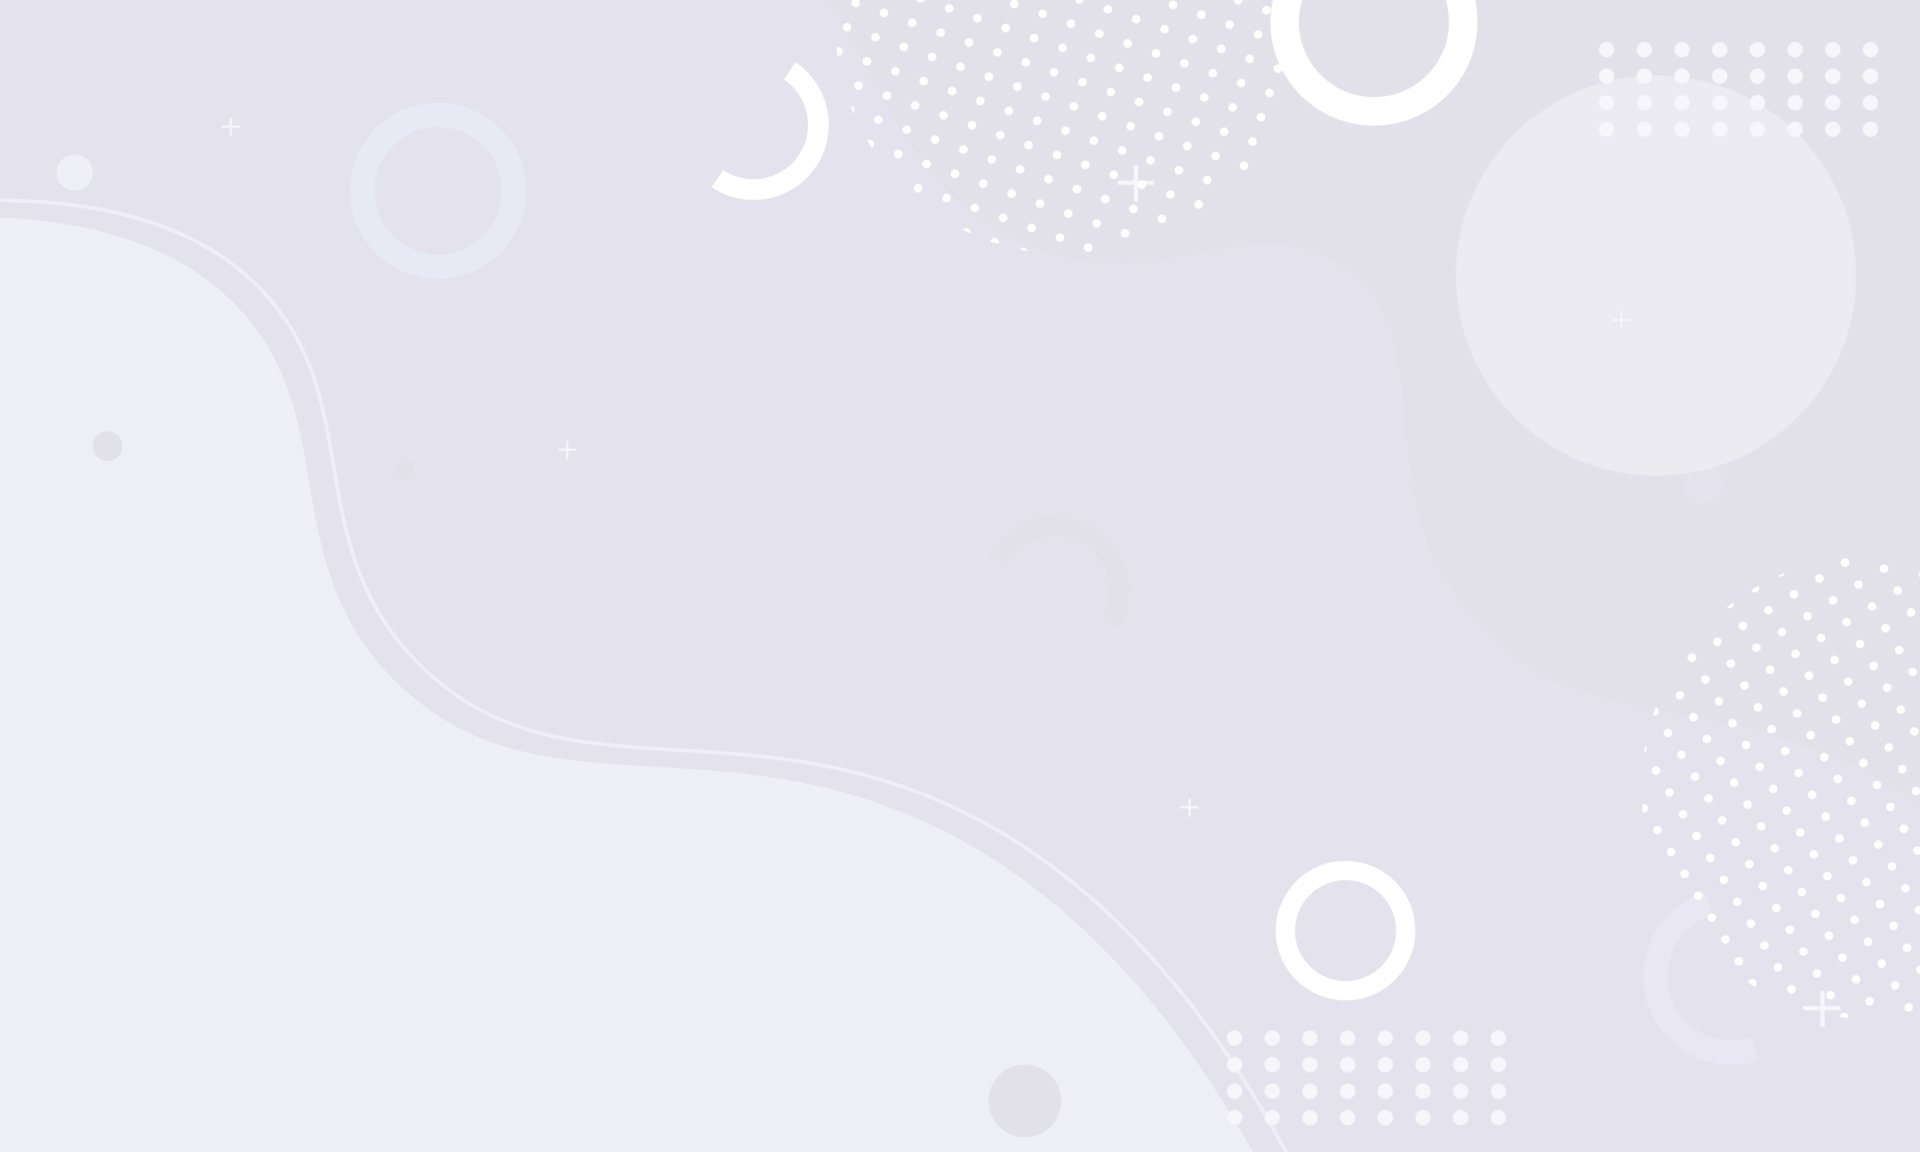
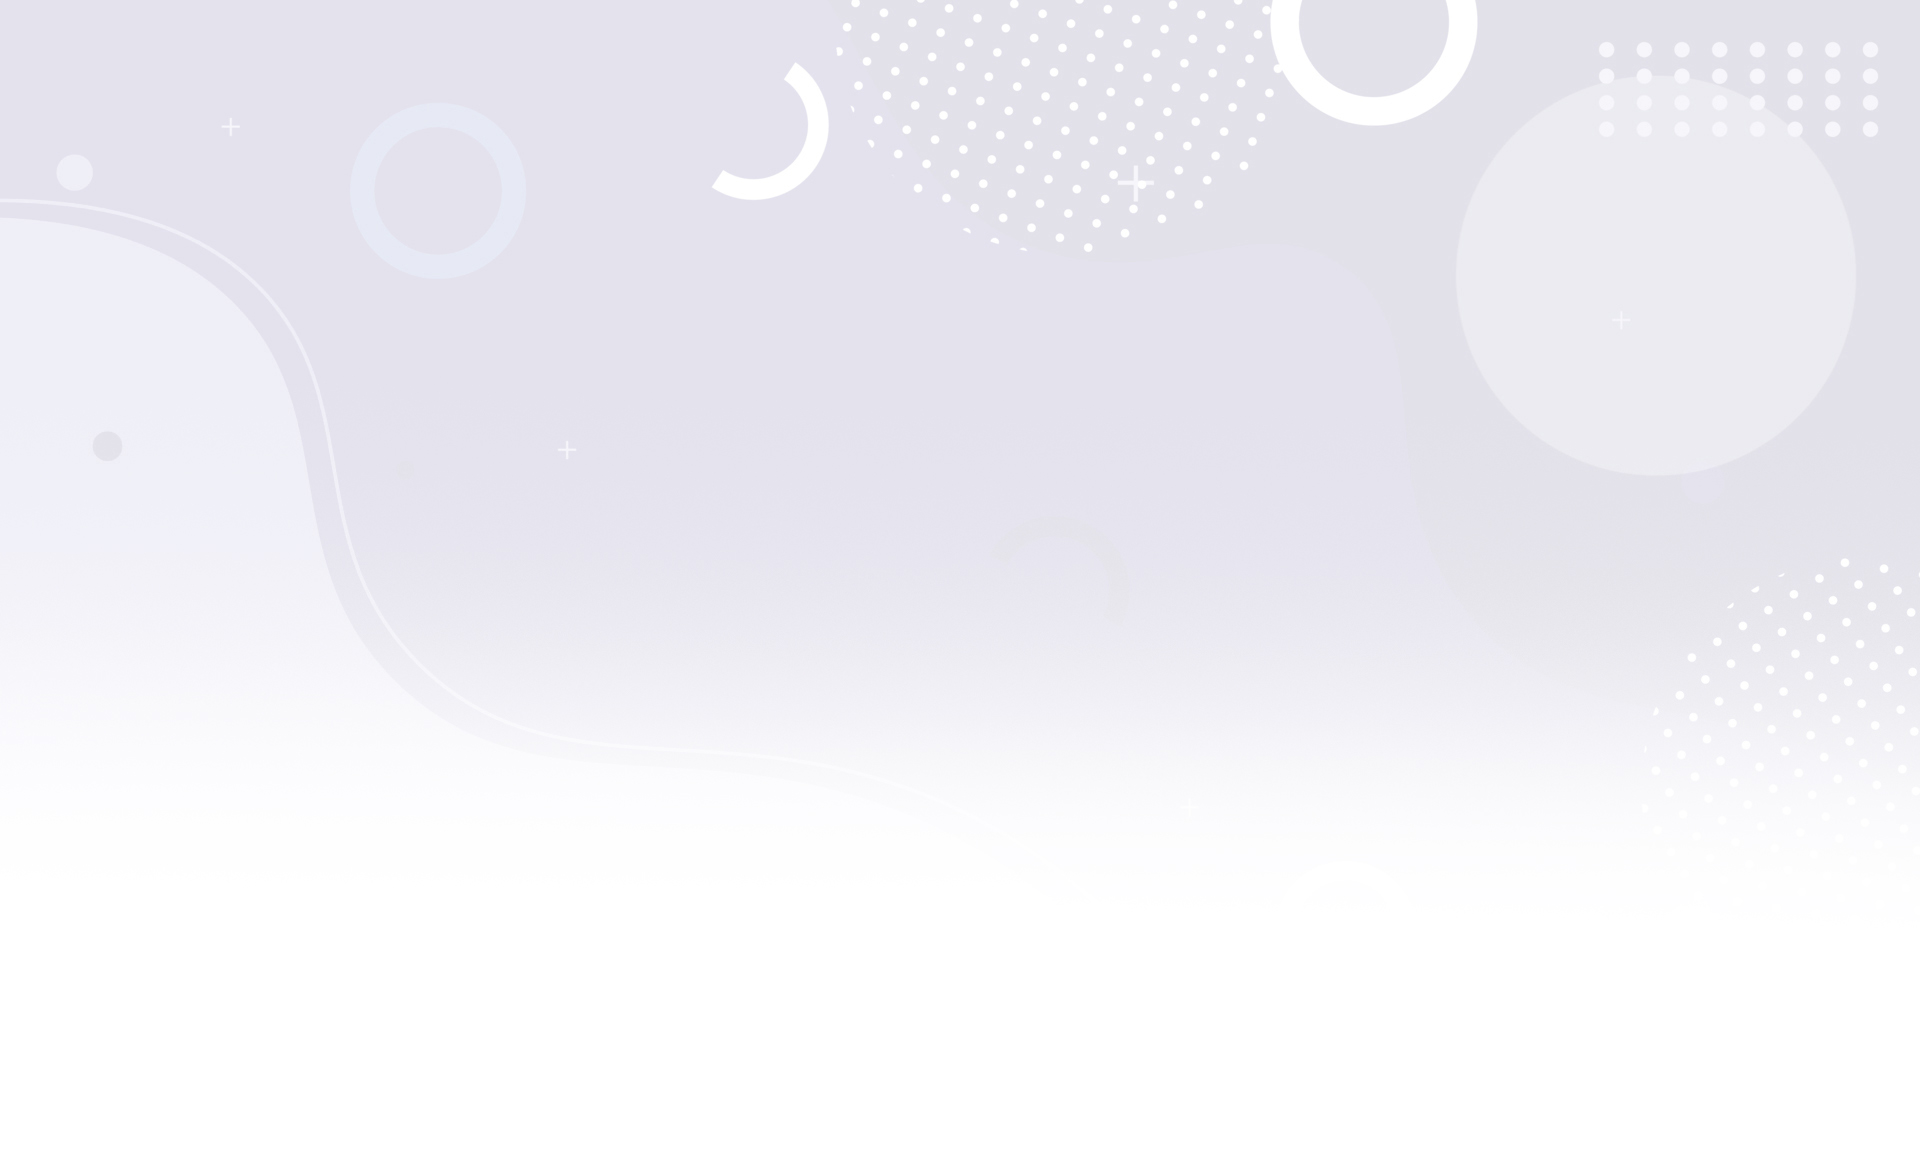
updated images

Changed region(s): [[0.4688, 0.6875, 1.0, 1.0], [0.5, 0.9062, 0.5625, 1.0]]

diff --git a/portfolio/style.css b/portfolio/style.css
@@ -44,7 +44,7 @@ html {
     min-width: 900px;
     height: 90vh;
     font-family: 'Poppins', sans-serif;
-    margin: 75px -20px 0 -20px;
+    margin: 75px 0px 0 0px;
     background-image: url(./images/background.jpg);
 }
 /*----------------------Home-------------------------*/
@@ -389,6 +389,14 @@ html {
     font-size: 55px;
     color: hsl(250, 35%, 80%);   
 }
+.background_image {
+    position: absolute;
+    min-width: 900px;
+    width: 97vw;
+    height: auto;
+    margin: -100px 0 0px 0;
+    z-index: -2;
+}
 /*----------------------Contact-----------------------*/
 /*--------------header---------------*/
 .contact_header{
@@ -396,7 +404,7 @@ html {
     font-weight: 600;
     font-size: 32px;
     text-align: center;
-    margin: 150px 0 100px 0;
+    margin: max(20vw, 200px) 0 100px 0;
 }
 /*--------------divs---------------*/
 .contact_divs{

diff --git a/portfolio/index.html b/portfolio/index.html
@@ -429,7 +429,10 @@
                 </div>            
 
             </div>   
-        </section>      
+        </section>     
+
+        <img class="background_image" src="./images/like_background.png"></img> 
+        
         <!-------------------------CONTACT----------------------------->
         <section class="contact" id="contact">
 
